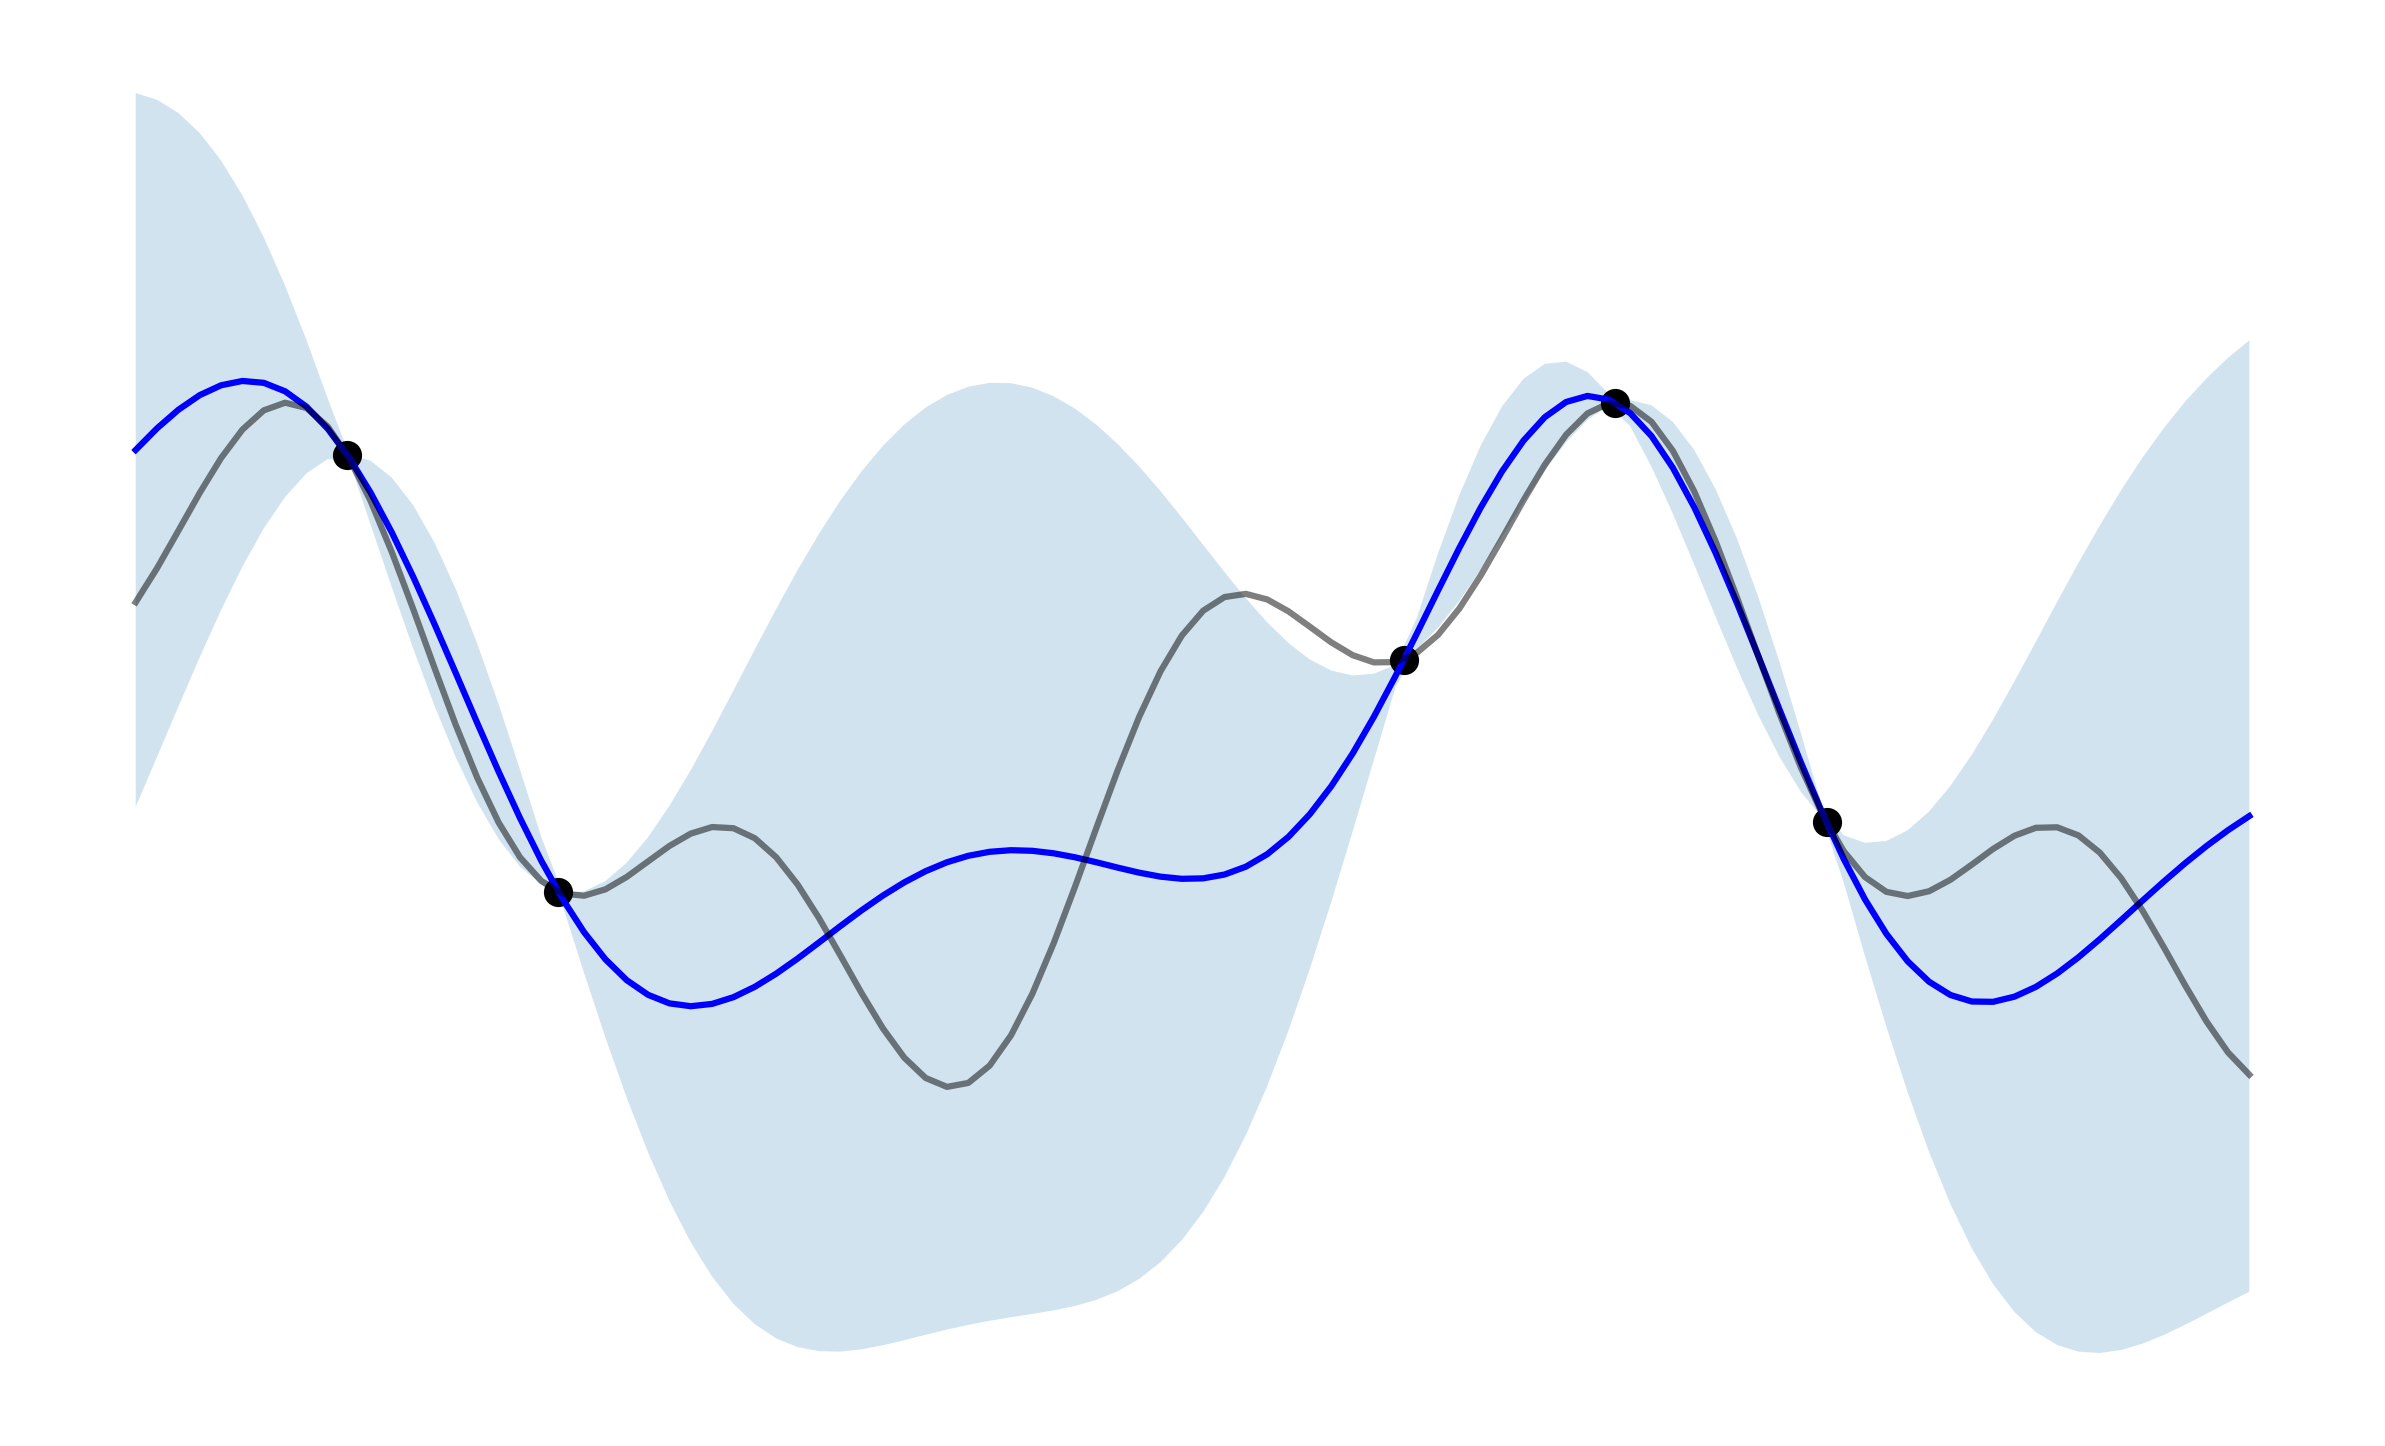
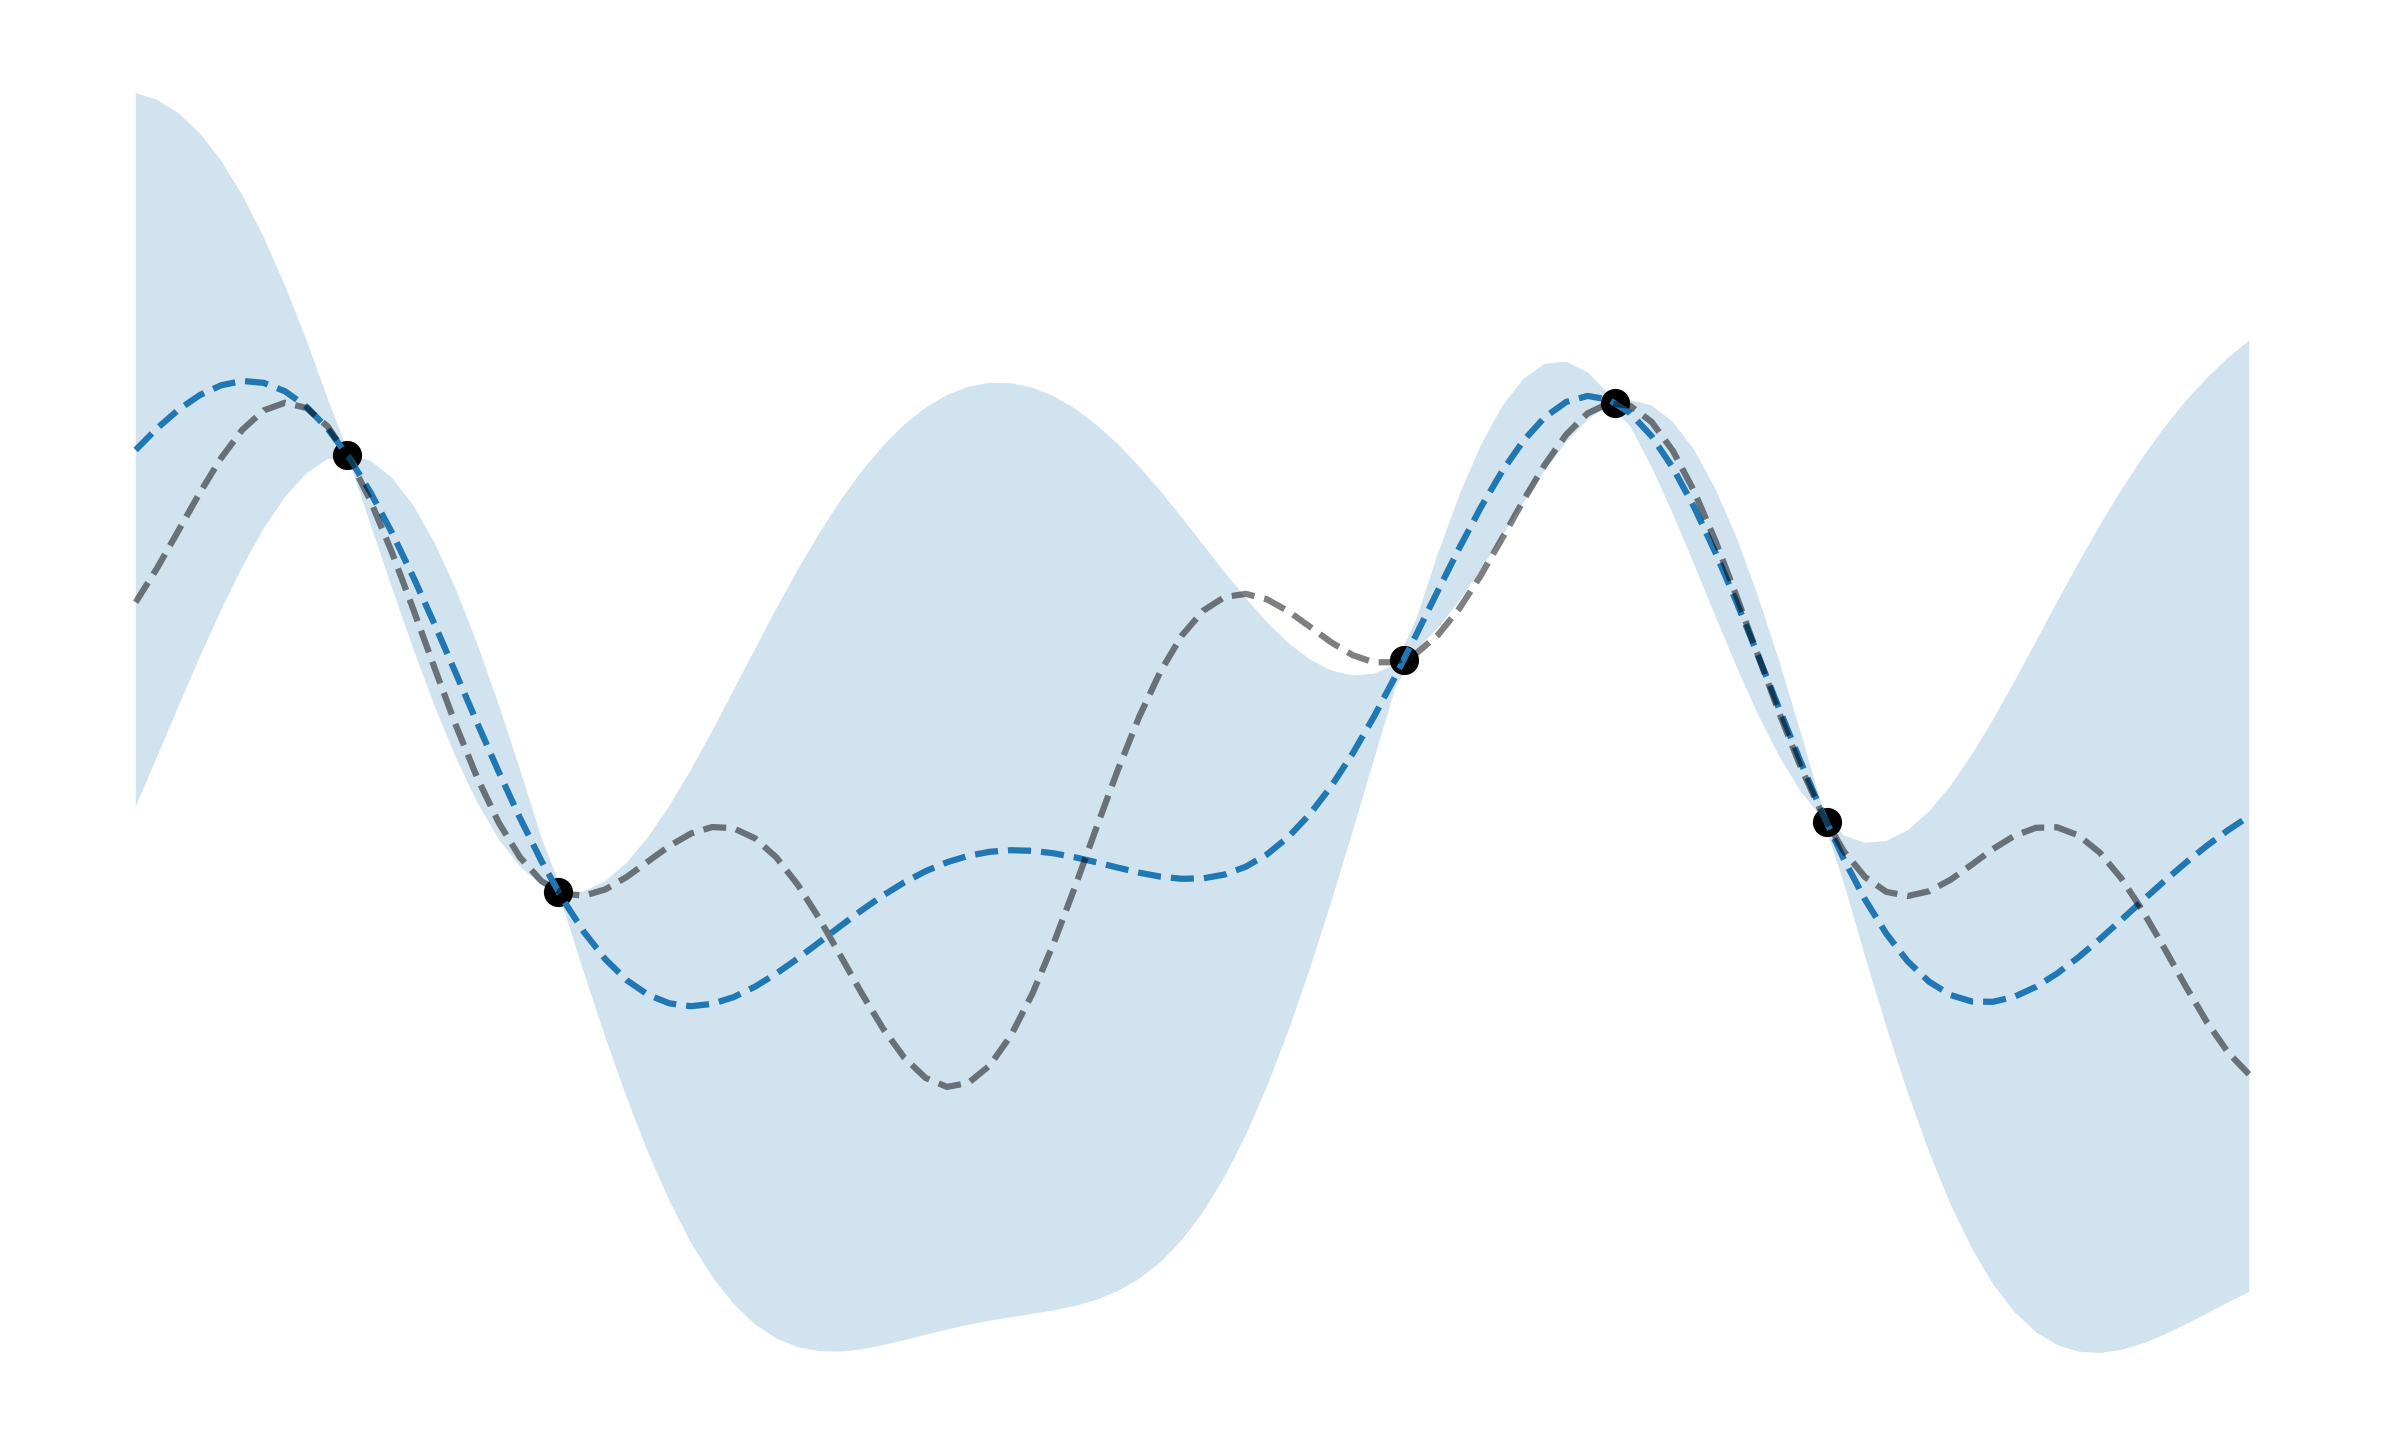
Update figures

diff --git a/_posts/2025-05-30-gp.md b/_posts/2025-05-30-gp.md
@@ -19,9 +19,11 @@ A Gaussian Process (GP) is a prior over functions - you can think of it as a way
 
 ## Gaussian Process Regression
 
-<!-- Gaussian Process Regression (GPR) is what happens when you condition the GP on observed data points. Now, the GP does not just sample random functions - it samples functions that pass through (or near) the training data, while still capturing uncertainty in areas where you have no observations. -->
+<!-- Gaussian process regression is the process of conditioning a Gaussian process on observed data.
 
-The black line represents the *true function* that we are attempting to learn and the black circles represent observed data.
+The GP samples functions that pass through (or near) the observed data, while capturing uncertainty in areas where you have no observations. -->
+
+The dashed black line represents the *true function* that we are attempting to learn and the black circles represent observed data.
 
 ![](/assets/images/gp-2.png)
 
